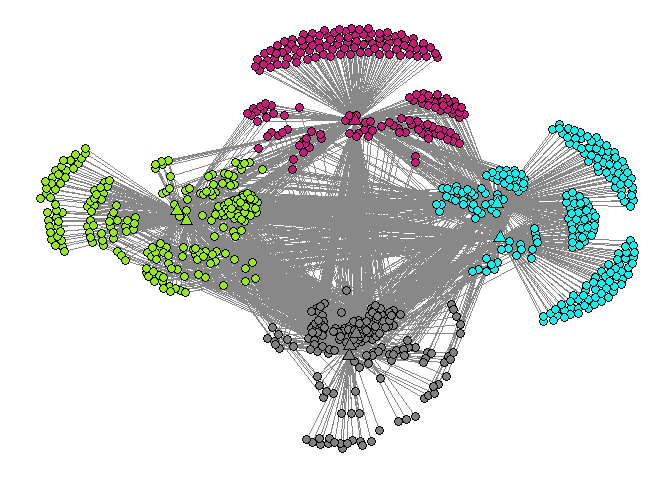
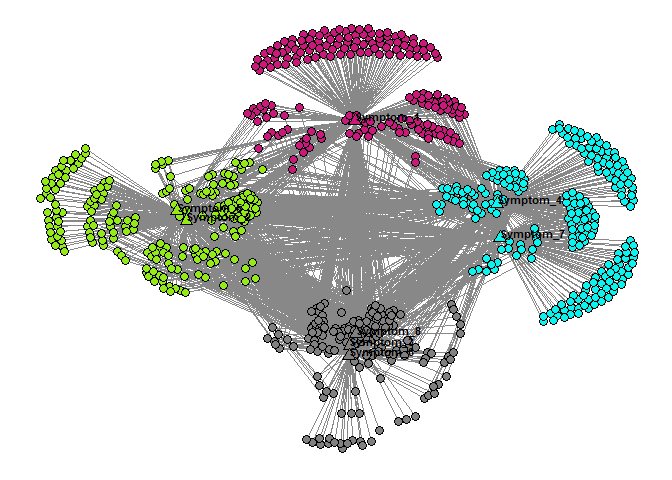
version 0.1.2

diff --git a/NEWS.md b/NEWS.md
@@ -1,0 +1,15 @@
+Version History
+===============
+
+Version 0.1.2
+------------------
+
+* Made explode radius adjustable.
+
+* Added a parameter to control which node labels to print when plotting.
+
+
+Version 0.1.1
+------------------
+
+* Initial version on CRAN.
